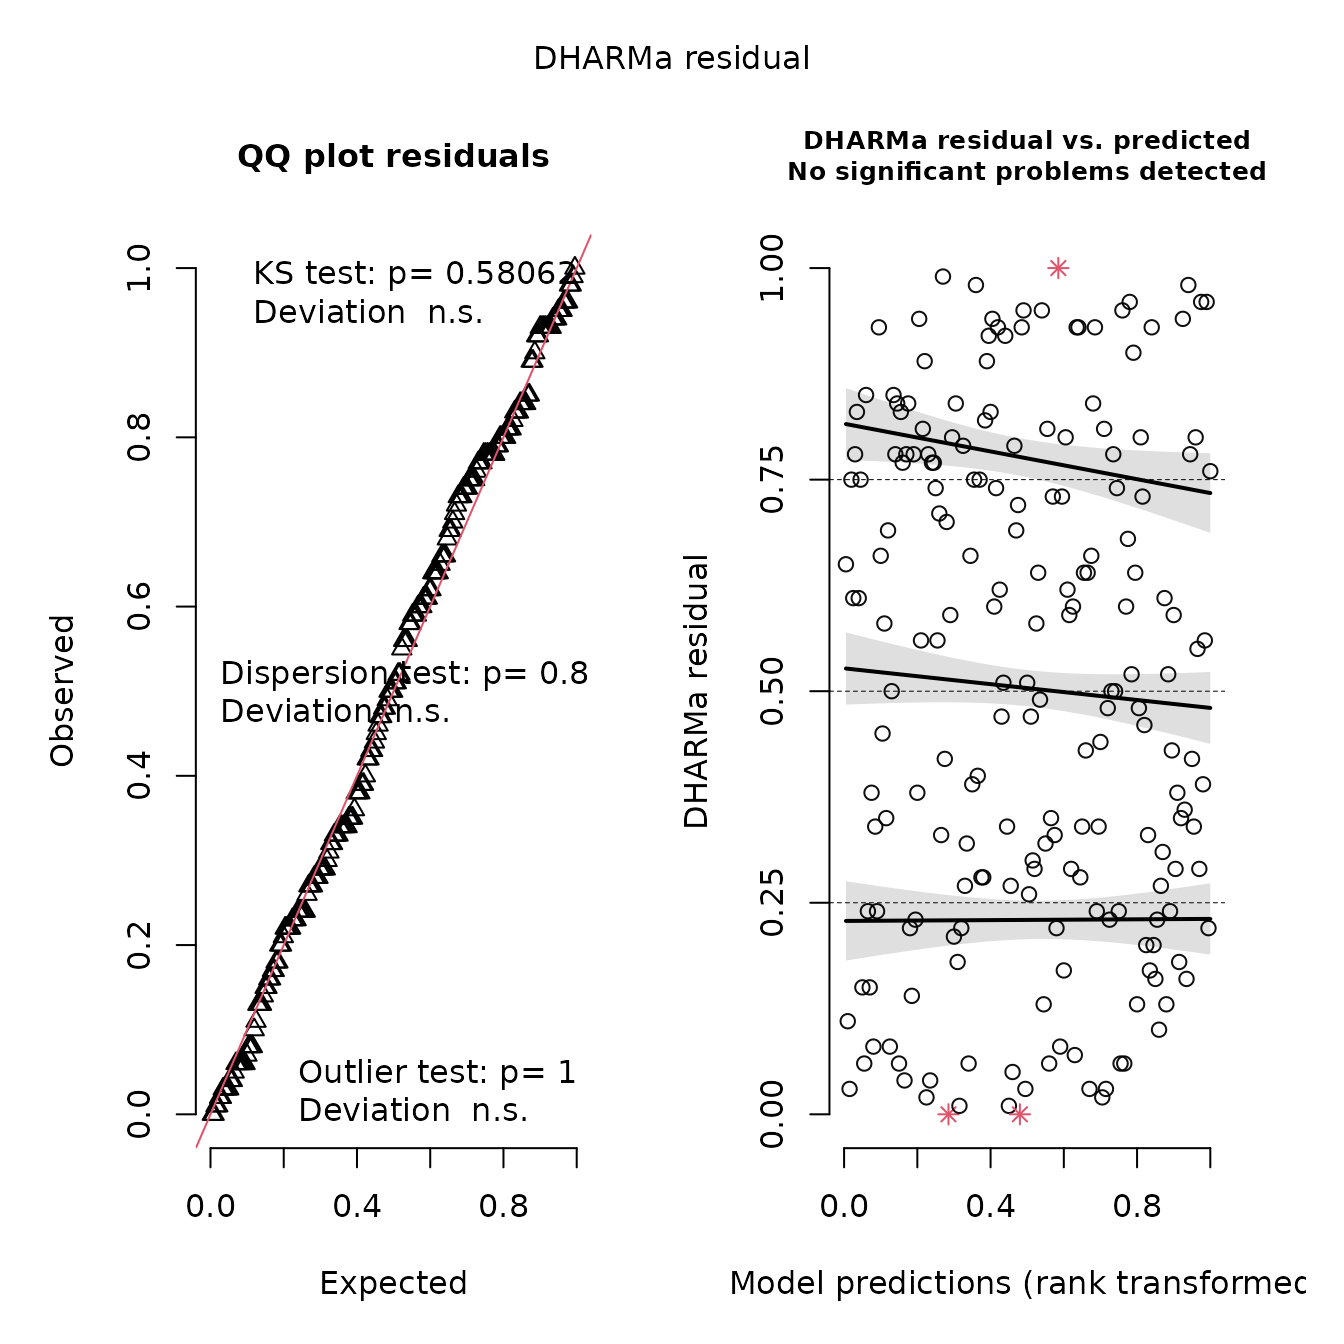
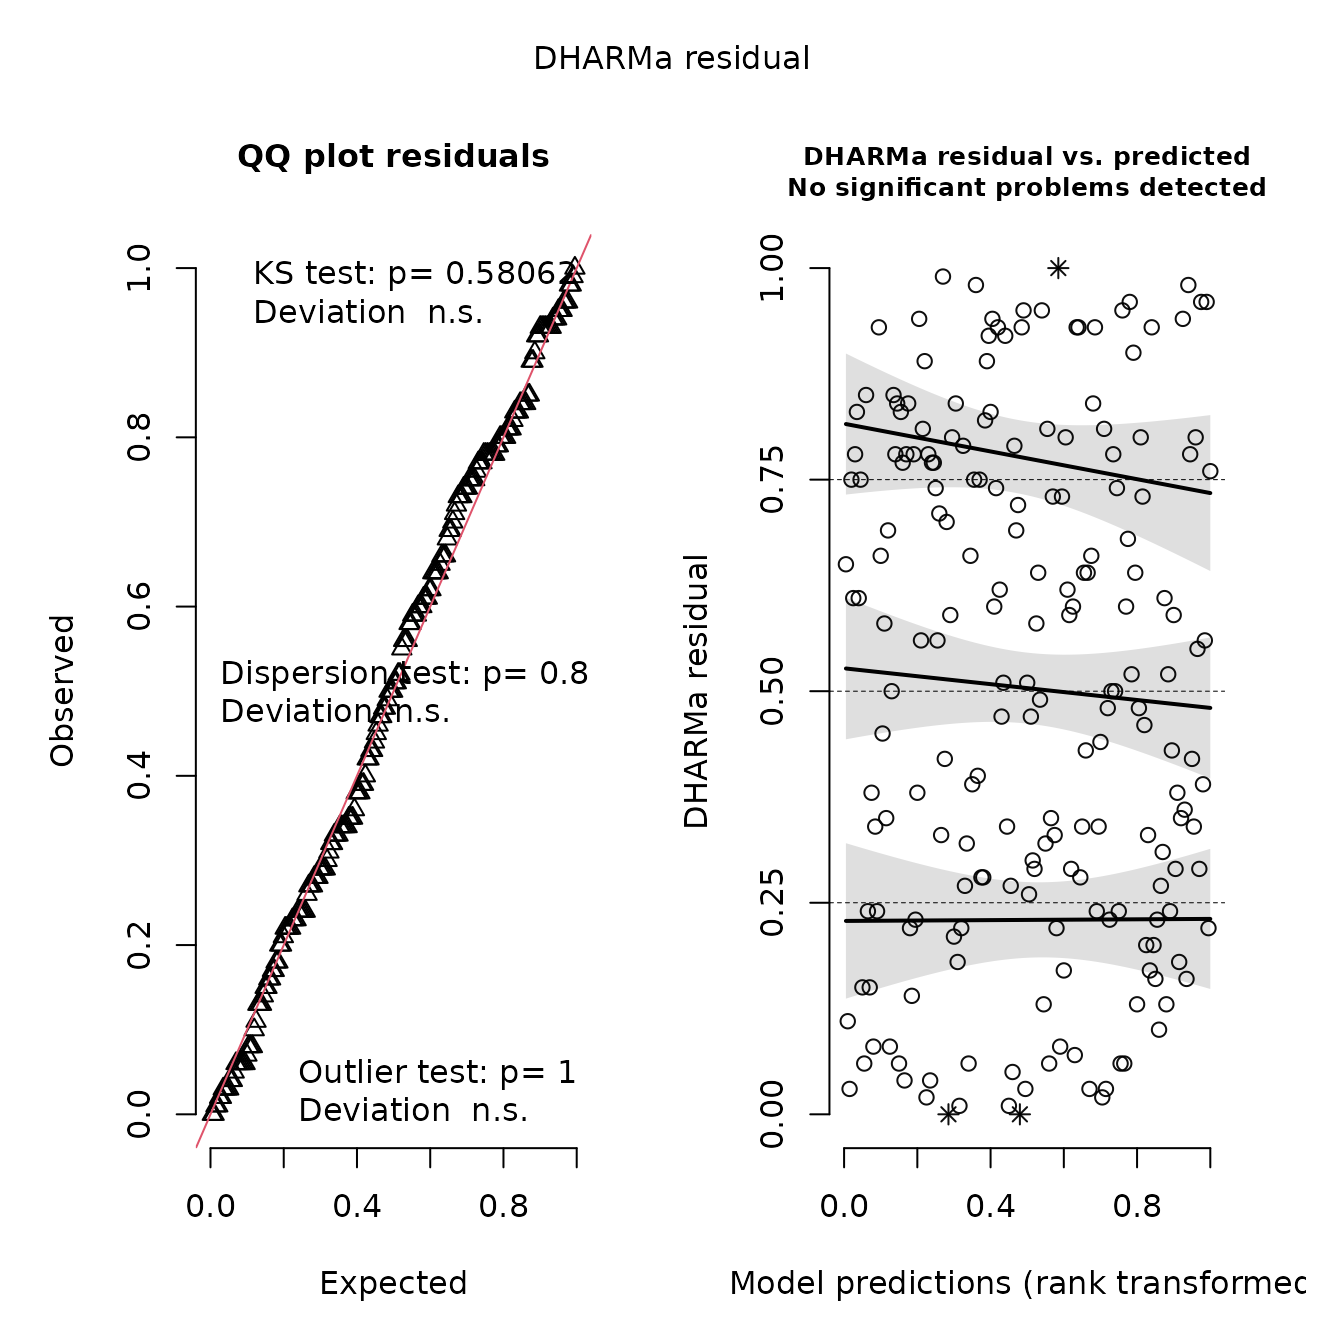
Deploying to gh-pages from @ James-Thorson-NOAA/dsem@f65e4c6755ed92fe474f797bcae8c6327b956c4c 🚀

diff --git a/dev/articles/nonlinear.html b/dev/articles/nonlinear.html
@@ -80,8 +80,6 @@ Thorson</h4>
 <p><code>dsem</code> can be specified to estimate some types of
 nonlinearity. Here, we demonstrate an approximation to the exponential
 function using Lotka-Volterra dynamics.</p>
-<p>To show this, we predict sea surface temperature from Departure Bay
-based upon the Pacific Decadal Oscillation:</p>
 <div class="sourceCode" id="cb1"><pre class="downlit sourceCode r">
 <code class="sourceCode R"><span><span class="kw"><a href="https://rdrr.io/r/base/library.html" class="external-link">library</a></span><span class="op">(</span><span class="va"><a href="https://james-thorson-noaa.github.io/dsem/" class="external-link">dsem</a></span><span class="op">)</span></span>
 <span><span class="va">dataset</span> <span class="op">=</span> <span class="fu"><a href="https://rdrr.io/r/base/c.html" class="external-link">c</a></span><span class="op">(</span><span class="st">"hare_lynx"</span>, <span class="st">"paramesium_didinium"</span> <span class="op">)</span><span class="op">[</span><span class="fl">2</span><span class="op">]</span></span>
@@ -274,7 +272,7 @@ parameters:</p>
 <span>  <span class="fu"><a href="https://ggraph.data-imaginist.com/reference/scale_edge_colour.html" class="external-link">scale_edge_colour_manual</a></span><span class="op">(</span>values <span class="op">=</span> <span class="fu"><a href="https://rdrr.io/r/base/c.html" class="external-link">c</a></span><span class="op">(</span><span class="st">"black"</span> <span class="op">=</span> <span class="st">"black"</span>, <span class="st">"grey"</span> <span class="op">=</span> <span class="st">"grey"</span><span class="op">)</span>, guide <span class="op">=</span> <span class="st">"none"</span><span class="op">)</span> <span class="op">+</span></span>
 <span>  <span class="fu"><a href="https://ggplot2.tidyverse.org/reference/scale_size.html" class="external-link">scale_size</a></span><span class="op">(</span> range <span class="op">=</span> <span class="fu"><a href="https://rdrr.io/r/base/c.html" class="external-link">c</a></span><span class="op">(</span><span class="fl">6</span>,<span class="fl">15</span><span class="op">)</span>, guide <span class="op">=</span> <span class="st">"none"</span> <span class="op">)</span></span></code></pre></div>
 <p><img src="nonlinear_files/figure-html/plot_graph-1.png" class="r-plt" alt="" width="700"></p>
-<p>Runtime for this vignette: 3.38 secs</p>
+<p>Runtime for this vignette: 3.63 secs</p>
 </div>
   </main><aside class="col-md-3"><nav id="toc" aria-label="Table of contents"><h2>On this page</h2>
     </nav></aside>

diff --git a/dev/articles/MGARCH.html b/dev/articles/MGARCH.html
@@ -251,7 +251,7 @@ hypothesized covariate.</p>
 <p><img src="MGARCH_files/figure-html/unnamed-chunk-5-1.png" class="r-plt" alt="" width="384"></p>
 <p>As expected, using a covariate improves the estimated
 heteroskedasticity even in the presence of missing data.</p>
-<p>Runtime for this vignette: 3.49 secs</p>
+<p>Runtime for this vignette: 3.79 secs</p>
 </div>
   </main><aside class="col-md-3"><nav id="toc" aria-label="Table of contents"><h2>On this page</h2>
     </nav></aside>

diff --git a/dev/articles/features.html b/dev/articles/features.html
@@ -815,7 +815,7 @@ producers.</p>
 <p><img src="features_files/figure-html/unnamed-chunk-18-1.png" class="r-plt" alt="" width="480"></p>
 <p>Again, these results are further discussed in the paper describing
 dsem.</p>
-<p>Runtime for this vignette: 33.58 secs</p>
+<p>Runtime for this vignette: 36.95 secs</p>
 </div>
 <div class="section level2">
 <h2 class="unnumbered" id="works-cited">Works cited<a class="anchor" aria-label="anchor" href="#works-cited"></a>

diff --git a/dev/articles/random_slopes.html b/dev/articles/random_slopes.html
@@ -233,7 +233,7 @@ variable that follows a first-order autoregressive process:</p>
 <span>  <span class="fu"><a href="https://ggraph.data-imaginist.com/reference/scale_edge_colour.html" class="external-link">scale_edge_colour_manual</a></span><span class="op">(</span>values <span class="op">=</span> <span class="fu"><a href="https://rdrr.io/r/base/c.html" class="external-link">c</a></span><span class="op">(</span><span class="st">"black"</span> <span class="op">=</span> <span class="st">"black"</span>, <span class="st">"grey"</span> <span class="op">=</span> <span class="st">"black"</span><span class="op">)</span>, guide <span class="op">=</span> <span class="st">"none"</span><span class="op">)</span> <span class="op">+</span></span>
 <span>  <span class="fu"><a href="https://ggplot2.tidyverse.org/reference/scale_size.html" class="external-link">scale_size</a></span><span class="op">(</span> range <span class="op">=</span> <span class="fu"><a href="https://rdrr.io/r/base/c.html" class="external-link">c</a></span><span class="op">(</span><span class="fl">6</span>,<span class="fl">15</span><span class="op">)</span>, guide <span class="op">=</span> <span class="st">"none"</span> <span class="op">)</span></span></code></pre></div>
 <p><img src="random_slopes_files/figure-html/plot_graph-1.png" class="r-plt" alt="" width="700"></p>
-<p>Runtime for this vignette: 6.49 secs</p>
+<p>Runtime for this vignette: 6.94 secs</p>
 </div>
   </main><aside class="col-md-3"><nav id="toc" aria-label="Table of contents"><h2>On this page</h2>
     </nav></aside>

diff --git a/dev/articles/web_only/dynamic_factor_analysis.html b/dev/articles/web_only/dynamic_factor_analysis.html
@@ -471,7 +471,7 @@ compare the three options in terms of estimated loadings:</p>
 <p>The estimating loadings are similar using DSEM and the MARSS model
 without initial penalty, except with label switching (where some factors
 and loadings can be multiplied by -1 with no change in the model):</p>
-<p>Runtime for this vignette: 14.76 secs</p>
+<p>Runtime for this vignette: 16.22 secs</p>
 </div>
 <div class="section level2">
 <h2 class="unnumbered" id="works-cited">Works cited<a class="anchor" aria-label="anchor" href="#works-cited"></a>

diff --git a/dev/articles/web_only/statistical_interactions.html b/dev/articles/web_only/statistical_interactions.html
@@ -316,7 +316,7 @@ specifically constructing temperature-squared as a latent variable:</p>
 <span>  <span class="fu"><a href="https://ggraph.data-imaginist.com/reference/scale_edge_colour.html" class="external-link">scale_edge_colour_manual</a></span><span class="op">(</span>values <span class="op">=</span> <span class="fu"><a href="https://rdrr.io/r/base/c.html" class="external-link">c</a></span><span class="op">(</span><span class="st">"black"</span> <span class="op">=</span> <span class="st">"black"</span>, <span class="st">"grey"</span> <span class="op">=</span> <span class="st">"grey"</span><span class="op">)</span>, guide <span class="op">=</span> <span class="st">"none"</span><span class="op">)</span> <span class="op">+</span></span>
 <span>  <span class="fu"><a href="https://ggplot2.tidyverse.org/reference/scale_size.html" class="external-link">scale_size</a></span><span class="op">(</span> range <span class="op">=</span> <span class="fu"><a href="https://rdrr.io/r/base/c.html" class="external-link">c</a></span><span class="op">(</span><span class="fl">6</span>,<span class="fl">15</span><span class="op">)</span>, guide <span class="op">=</span> <span class="st">"none"</span> <span class="op">)</span></span></code></pre></div>
 <p><img src="statistical_interactions_files/figure-html/plot_graph-1.png" class="r-plt" alt="" width="700"></p>
-<p>Runtime for this vignette: 56.76 mins</p>
+<p>Runtime for this vignette: 57.45 mins</p>
 </div>
   </main><aside class="col-md-3"><nav id="toc" aria-label="Table of contents"><h2>On this page</h2>
     </nav></aside>

diff --git a/dev/news/index.html b/dev/news/index.html
@@ -117,7 +117,7 @@
 <ul><li>Adding option for lower and upper bounds</li>
 <li>Adding <code>stepwise_selection</code> for automated stepwise model selection</li>
 <li>Adding <code>plot</code> option to use <code>ggraph</code> as alternative to previous <code>igraph</code> option</li>
-<li>Adding <code>convert_equations</code> to extend <code><a href="https://rdrr.io/pkg/sem/man/specifyModel.html" class="external-link">sem::specifyEquations</a></code> and simplify specification for large models</li>
+<li>Adding <code>convert_equations</code> to extend <code>sem::specifyEquations</code> and simplify specification for large models</li>
 <li>Adding argument <code>prior_negloglike</code> as interface to specify Bayesian priors and/or likelihood penalties in <code>dsem</code>
 </li>
 <li>Adding <code>dsemRTMB</code> using RTMB as interchangeable alternative to <code>dsem</code> using TMB</li>

diff --git a/dev/articles/nonlinear.md b/dev/articles/nonlinear.md
@@ -6,9 +6,6 @@
 demonstrate an approximation to the exponential function using
 Lotka-Volterra dynamics.
 
-To show this, we predict sea surface temperature from Departure Bay
-based upon the Pacific Decadal Oscillation:
-
 ``` r
 
 library(dsem)
@@ -216,4 +213,4 @@ ggraph(layout) +
 
 ![](nonlinear_files/figure-html/plot_graph-1.png)
 
-Runtime for this vignette: 3.38 secs
+Runtime for this vignette: 3.63 secs

diff --git a/dev/news/index.md b/dev/news/index.md
@@ -134,9 +134,8 @@ CRAN release: 2025-01-13
 - Adding `stepwise_selection` for automated stepwise model selection
 - Adding `plot` option to use `ggraph` as alternative to previous
   `igraph` option
-- Adding `convert_equations` to extend
-  [`sem::specifyEquations`](https://rdrr.io/pkg/sem/man/specifyModel.html)
-  and simplify specification for large models
+- Adding `convert_equations` to extend `sem::specifyEquations` and
+  simplify specification for large models
 - Adding argument `prior_negloglike` as interface to specify Bayesian
   priors and/or likelihood penalties in `dsem`
 - Adding `dsemRTMB` using RTMB as interchangeable alternative to `dsem`

diff --git a/dev/articles/MGARCH.md b/dev/articles/MGARCH.md
@@ -187,4 +187,4 @@ legend( "topleft", fill = c("black","red","blue"), bty = "n",
 As expected, using a covariate improves the estimated heteroskedasticity
 even in the presence of missing data.
 
-Runtime for this vignette: 3.49 secs
+Runtime for this vignette: 3.79 secs

diff --git a/dev/articles/features.md b/dev/articles/features.md
@@ -778,7 +778,7 @@ ggarrange(p1 + scale_x_continuous(expand = c(0.3, 0)),
 
 Again, these results are further discussed in the paper describing dsem.
 
-Runtime for this vignette: 33.58 secs
+Runtime for this vignette: 36.95 secs
 
 ## Works cited
 

diff --git a/dev/articles/random_slopes.md b/dev/articles/random_slopes.md
@@ -180,4 +180,4 @@ ggraph(layout) +
 
 ![](random_slopes_files/figure-html/plot_graph-1.png)
 
-Runtime for this vignette: 6.49 secs
+Runtime for this vignette: 6.94 secs